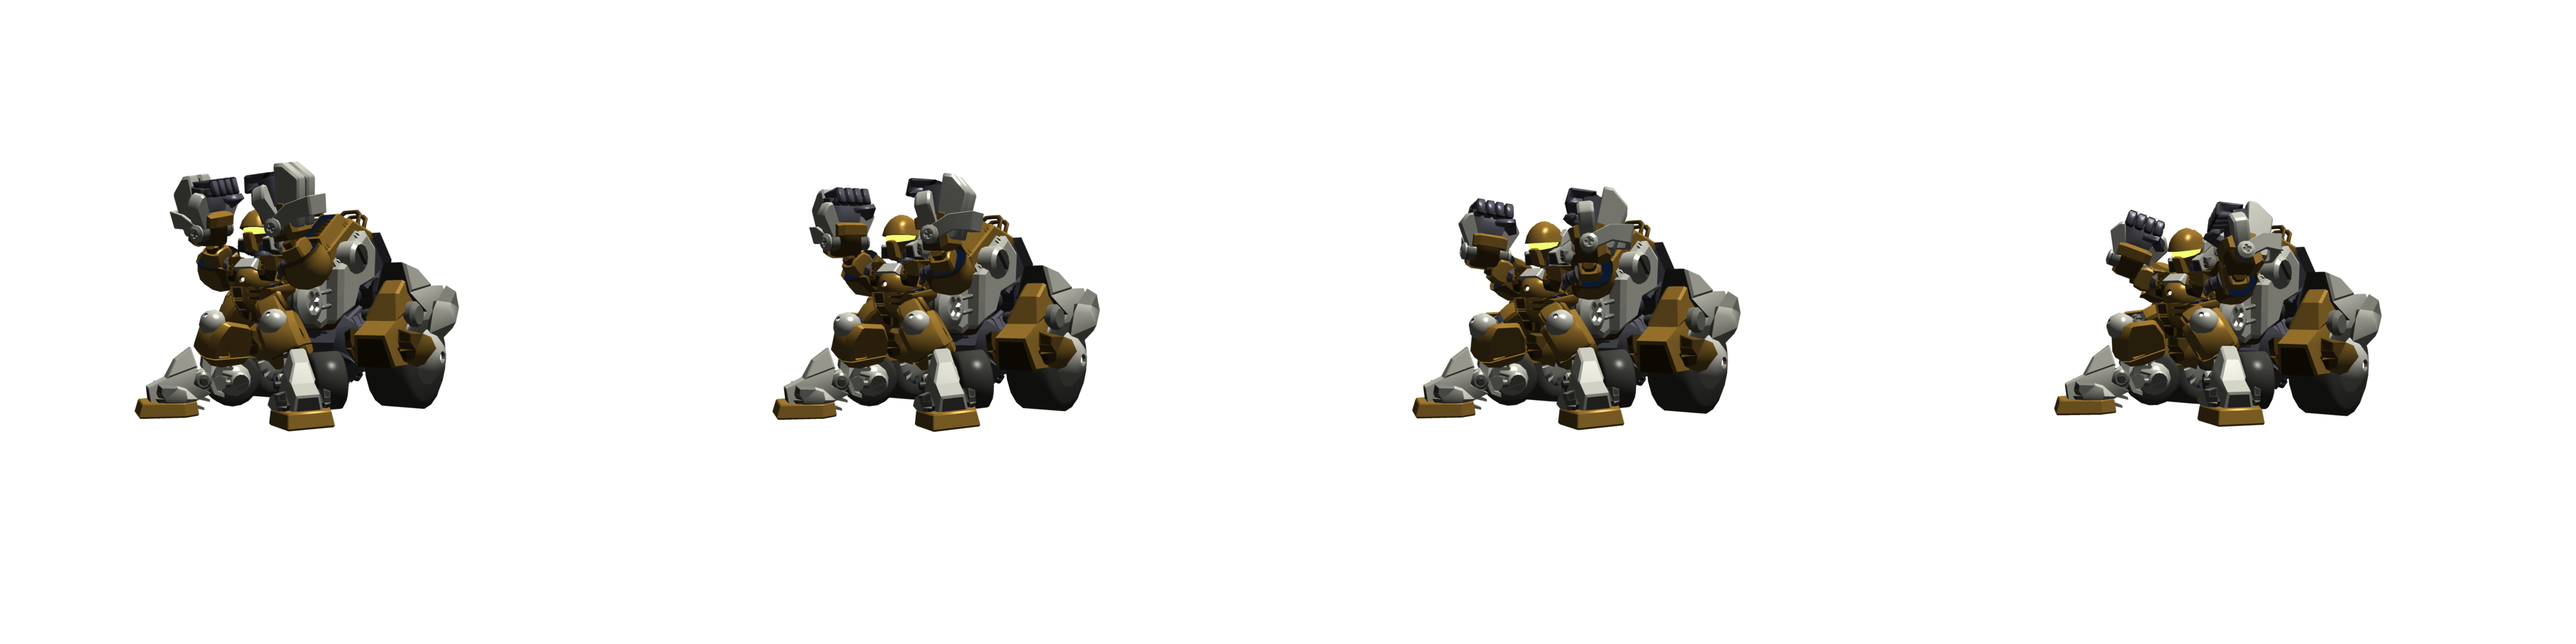
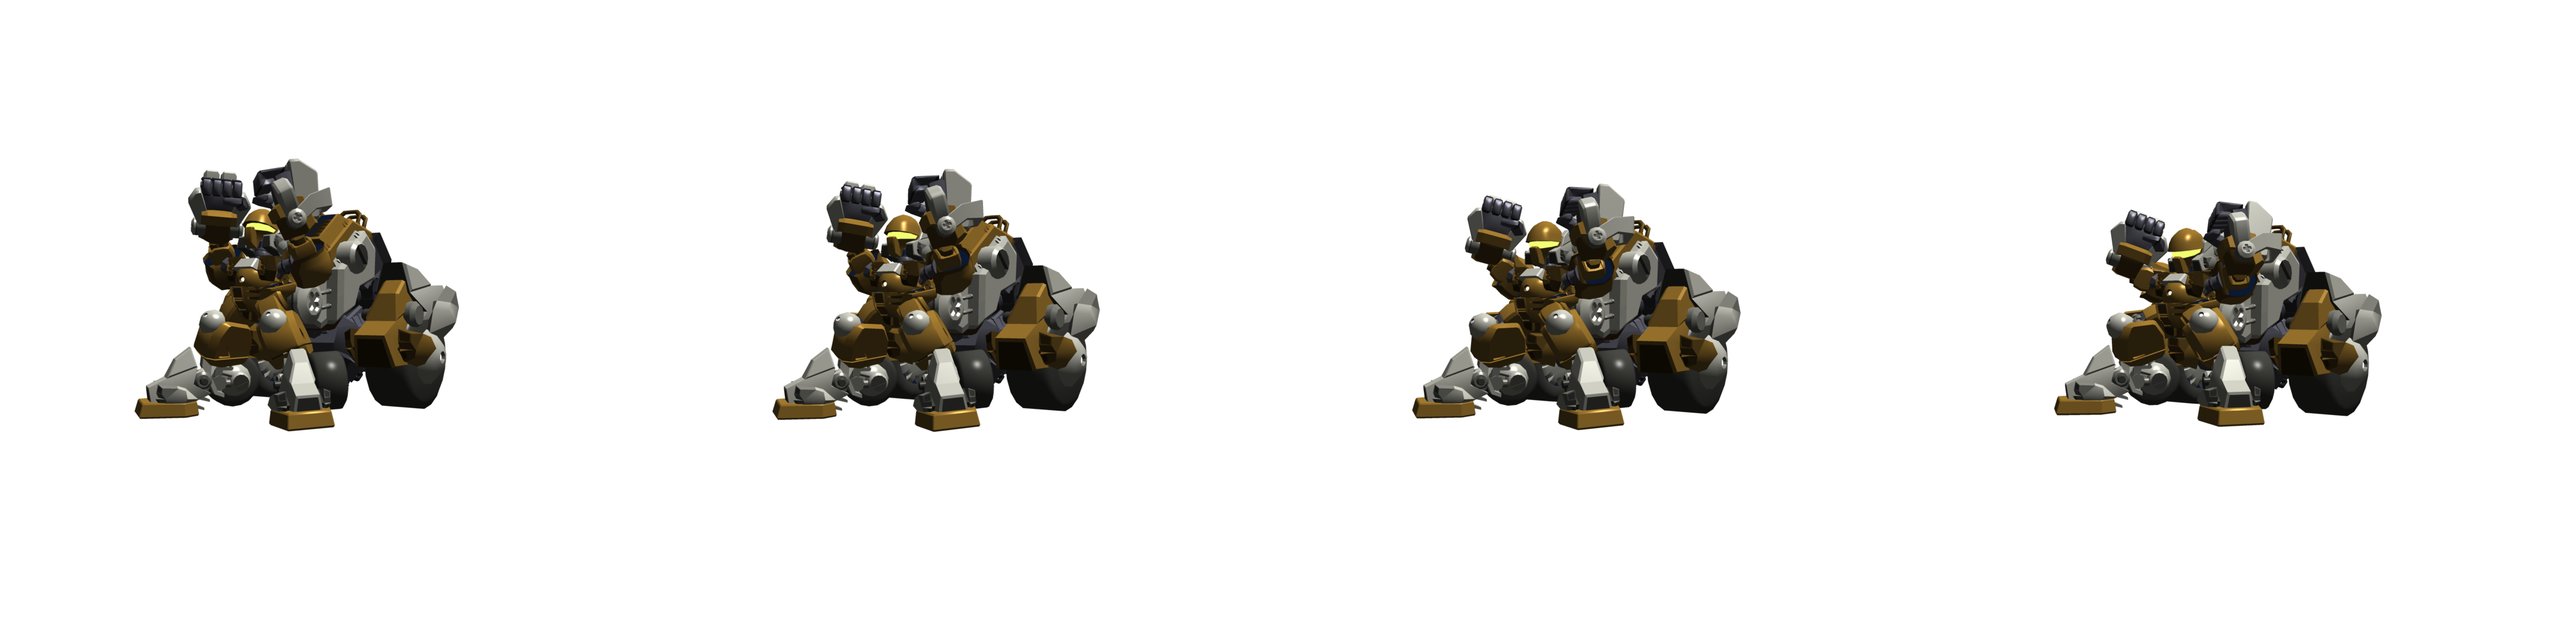
新規: グランドーザーのバーストアップテクスチャを追加し、関連するIDを定義

Changed region(s): [[0.5625, 0.2812, 0.6562, 0.4375], [0.3125, 0.25, 0.4062, 0.4375], [0.0625, 0.25, 0.125, 0.4375]]

diff --git a/src/js/resource/texture/ids.ts b/src/js/resource/texture/ids.ts
@@ -88,6 +88,7 @@ export const TEXTURE_IDS = {
   GRAN_DOZER_TACKLE_CHARGE: "GRAN_DOZER_TACKLE_CHARGE",
   GRAN_DOZER_TACKLE_ATTACK: "GRAN_DOZER_TACKLE_ATTACK",
   GRAN_DOZER_TACKLE_TO_BACK_STEP: "GRAN_DOZER_TACKLE_TO_BACK_STEP",
+  GRAN_DOZER_BURST_UP: "GRAN_DOZER_BURST_UP",
   GRAN_DOZER_BURST_DOWN: "GRAN_DOZER_BURST_DOWN",
   GRAN_DOZER_FRONT_STEP: "GRAN_DOZER_FRONT_STEP",
   GRAN_DOZER_BACK_STEP: "GRAN_DOZER_BACK_STEP",

diff --git a/src/js/resource/texture/configs/gran-dozer.ts b/src/js/resource/texture/configs/gran-dozer.ts
@@ -22,6 +22,10 @@ export const GranDozerTextureConfigs: TextureConfig[] = [
     path: "armdozer/gran-dozer/tackle-to-back-step.webp",
   },
   {
+    id: TEXTURE_IDS.GRAN_DOZER_BURST_UP,
+    path: "armdozer/gran-dozer/burst-up.webp",
+  },
+  {
     id: TEXTURE_IDS.GRAN_DOZER_BURST_DOWN,
     path: "armdozer/gran-dozer/burst-down.webp",
   },
